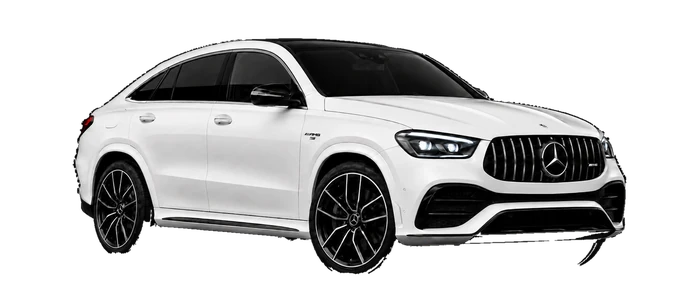
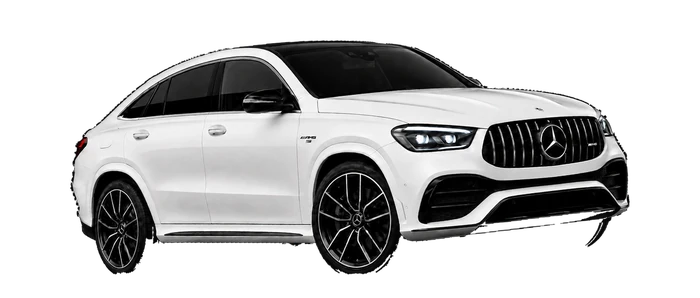
Garage: ruedas niveladas por rotacion, nombre mas grande, texto pegado y boton
LA NIVELACION, que fue idea del usuario y era la correcta.

En una vista de tres cuartos la rueda delantera esta mas cerca de la
camara, asi que aparece mas abajo que la trasera. Es perspectiva
correcta en una foto, pero recortado sobre negro el auto se lee como si
estuviera en una bajada, y es lo que hacia que pareciera cortado.

Se mide la linea del piso entre las dos ruedas del MISMO flanco —la
trasera se busca en el primer 35% del auto, la delantera es el punto mas
bajo de todos— y se rota la imagen ese angulo. La rueda del lado lejano
no sirve para esto: esta a otra profundidad, y una recta entre dos
ruedas de distinta profundidad no es la linea del piso; usandola daba
2.4 grados en vez de 5.2 y el auto seguia torcido.

Las cuatro necesitaron casi el mismo giro (4.76 a 5.44 grados), lo que
confirma que se fotografiaron igual. Verificado: desnivel 0 px en las
cuatro.

Y NO SE CORTA NINGUNA RUEDA. Se comprobo el perfil del alfa fila por
fila: el neumatico se afina hasta 8 px de ancho y recien ahi termina,
o sea que llega en punta y no cortado.

EL RESTO:
- El nombre pasa de 4.2rem a 5.2rem de tope, y sube al 13% porque al
  agrandarlo su base bajaba y el techo dejaba de cruzarlo.
- El texto se pega al auto: el auto baja al 9% del escenario (era 16%) y
  el margen del texto baja a .6rem (era 1.6rem).
- Boton "Ver esta linea" por grupo. Cada linea va a tener su seccion;
  hasta que existan lleva al concierge, que es donde hoy si se puede
[…]

Changed region(s): [[0.09, 0.1208, 0.9, 0.9362], [0.42, 0.4228, 0.45, 0.4832]]

diff --git a/public/index.html b/public/index.html
@@ -866,12 +866,12 @@ video::-webkit-media-controls{ display:none !important; }
 .gar-marca{
   position:absolute;
   left:50%;
-  top:17%;
+  top:13%;
   z-index:0;
   transform:translateX(-50%);
   white-space:nowrap;
   font-family:var(--display);
-  font-size:clamp(1.35rem,4.9vw,4.2rem);
+  font-size:clamp(1.5rem,5.8vw,5.2rem);
   font-weight:700;
   letter-spacing:.03em;
   line-height:1;
@@ -895,7 +895,7 @@ video::-webkit-media-controls{ display:none !important; }
 .gar-auto{
   position:absolute;
   left:50%;
-  bottom:16%;
+  bottom:9%;
   width:68%;
   z-index:2;
   opacity:0;
@@ -970,10 +970,10 @@ video::-webkit-media-controls{ display:none !important; }
    Ahora el nombre vive en la escena, así que acá abajo queda sólo la
    descripción: una línea de apoyo, sin jerarquía que compita. */
 .gar-texto{
-  margin:clamp(1rem,2.4vh,1.6rem) auto 0;
+  margin:clamp(.2rem,.8vh,.6rem) auto 0;
   max-width:32rem;
   text-align:center;
-  min-height:4.5rem;
+  min-height:3.6rem;
   transition:opacity .3s var(--ease);
 }
 .gar-texto.cambiando{ opacity:0; }
@@ -983,6 +983,36 @@ video::-webkit-media-controls{ display:none !important; }
   font-size:clamp(.88rem,1.1vw,.98rem);
   line-height:1.7;
   color:var(--steel);
+}
+
+/* EL BOTON DE LA LINEA. Cada grupo va a tener su propia seccion; hasta
+   que existan, el boton lleva al concierge, que es el lugar real donde
+   hoy se puede preguntar por una linea. Se prefiere eso a un enlace
+   muerto o a un boton apagado: el destino cambia el dia que la seccion
+   exista, y es un renglon por grupo en GRUPOS. */
+.gar-boton{
+  display:inline-block;
+  margin-top:clamp(.9rem,2vh,1.3rem);
+  padding:.85em 1.8em;
+  border:1px solid rgba(209,213,219,.28);
+  border-radius:2px;
+  background:transparent;
+  font-family:var(--display);
+  font-size:.58rem;
+  font-weight:700;
+  letter-spacing:.18em;
+  text-transform:uppercase;
+  text-decoration:none;
+  color:var(--gris);
+  transition:border-color .35s var(--ease), color .35s var(--ease),
+             background-color .35s var(--ease);
+}
+@media (hover:hover){
+  .gar-boton:hover{
+    border-color:var(--chrome);
+    background:var(--chrome);
+    color:var(--void);
+  }
 }
 
 /* ── los mandos ─────────────────────────────────────────────────── */
@@ -1033,14 +1063,14 @@ video::-webkit-media-controls{ display:none !important; }
    324 px de ancho tres autos que no se tocan no entran de otra forma. */
 @media (max-width:820px){
   .gar-escena{ aspect-ratio:1.85; }
-  .gar-marca{ top:24%; font-size:clamp(1.1rem,5.4vw,2rem); }
-  .gar-auto{ width:70%; bottom:13%; }
+  .gar-marca{ top:22%; font-size:clamp(1.25rem,6.4vw,2.4rem); }
+  .gar-auto{ width:70%; bottom:8%; }
   .gar-auto.es-previo,
   .gar-auto.es-siguiente{ transform:translateX(-50%) scale(.30); }
   .gar-auto.es-previo   { left:10.6%; }
   .gar-auto.es-siguiente{ left:89.4%; }
   .gar-flecha{ width:2.2rem; height:2.2rem; }
-  .gar-texto{ min-height:5.5rem; }
+  .gar-texto{ min-height:4.6rem; }
 }
 
 @media (prefers-reduced-motion:reduce){
@@ -2860,6 +2890,7 @@ body.is-dark.is-scrolled #topbar{
     <div class="gar-texto">
       <p>Las unidades más exclusivas del salón. Mercedes-Benz y
          equivalentes, preservadas y listas para entregar.</p>
+      <a class="gar-boton" href="#concierge">Ver esta línea</a>
     </div>
 
     <!-- Los mandos van DEBAJO del escenario y no a los costados: liberar
@@ -2908,16 +2939,17 @@ body.is-dark.is-scrolled #topbar{
   var texto = sec.querySelector('.gar-texto');
   var escena = sec.querySelector('.gar-escena');
   var marca  = sec.querySelector('.gar-marca');
+  var boton  = sec.querySelector('.gar-boton');
   if (autos.length < 2) return;
 
   var GRUPOS = [
-    { titulo:'Alta Gama',
+    { titulo:'Alta Gama', seccion:'',
       texto:'Las unidades más exclusivas del salón. Mercedes-Benz y equivalentes, preservadas y listas para entregar.' },
-    { titulo:'Deportivos',
+    { titulo:'Deportivos', seccion:'',
       texto:'Prestaciones y chasis afinado. BMW M, AMG y afines, con el historial de mantenimiento completo.' },
-    { titulo:'Línea Evolution',
+    { titulo:'Línea Evolution', seccion:'',
       texto:'Eléctricos e híbridos. La misma exigencia de selección aplicada a la generación que viene.' },
-    { titulo:'Urbanos',
+    { titulo:'Urbanos', seccion:'',
       texto:'Para la ciudad, sin resignar carácter. MINI y compactos premium, listos para el día a día.' }
   ];
 
@@ -2931,6 +2963,9 @@ body.is-dark.is-scrolled #topbar{
     var g = GRUPOS[actual] || GRUPOS[0];
     if (marca) marca.textContent = g.titulo;
     texto.querySelector('p').textContent = g.texto;
+    /* Cuando cada linea tenga su seccion, alcanza con poner su ancla en
+       `seccion` y el boton la sigue. */
+    if (boton) boton.setAttribute('href', g.seccion || '#concierge');
     rayas.forEach(function(r, k){
       r.setAttribute('aria-current', String(k === actual));
     });
